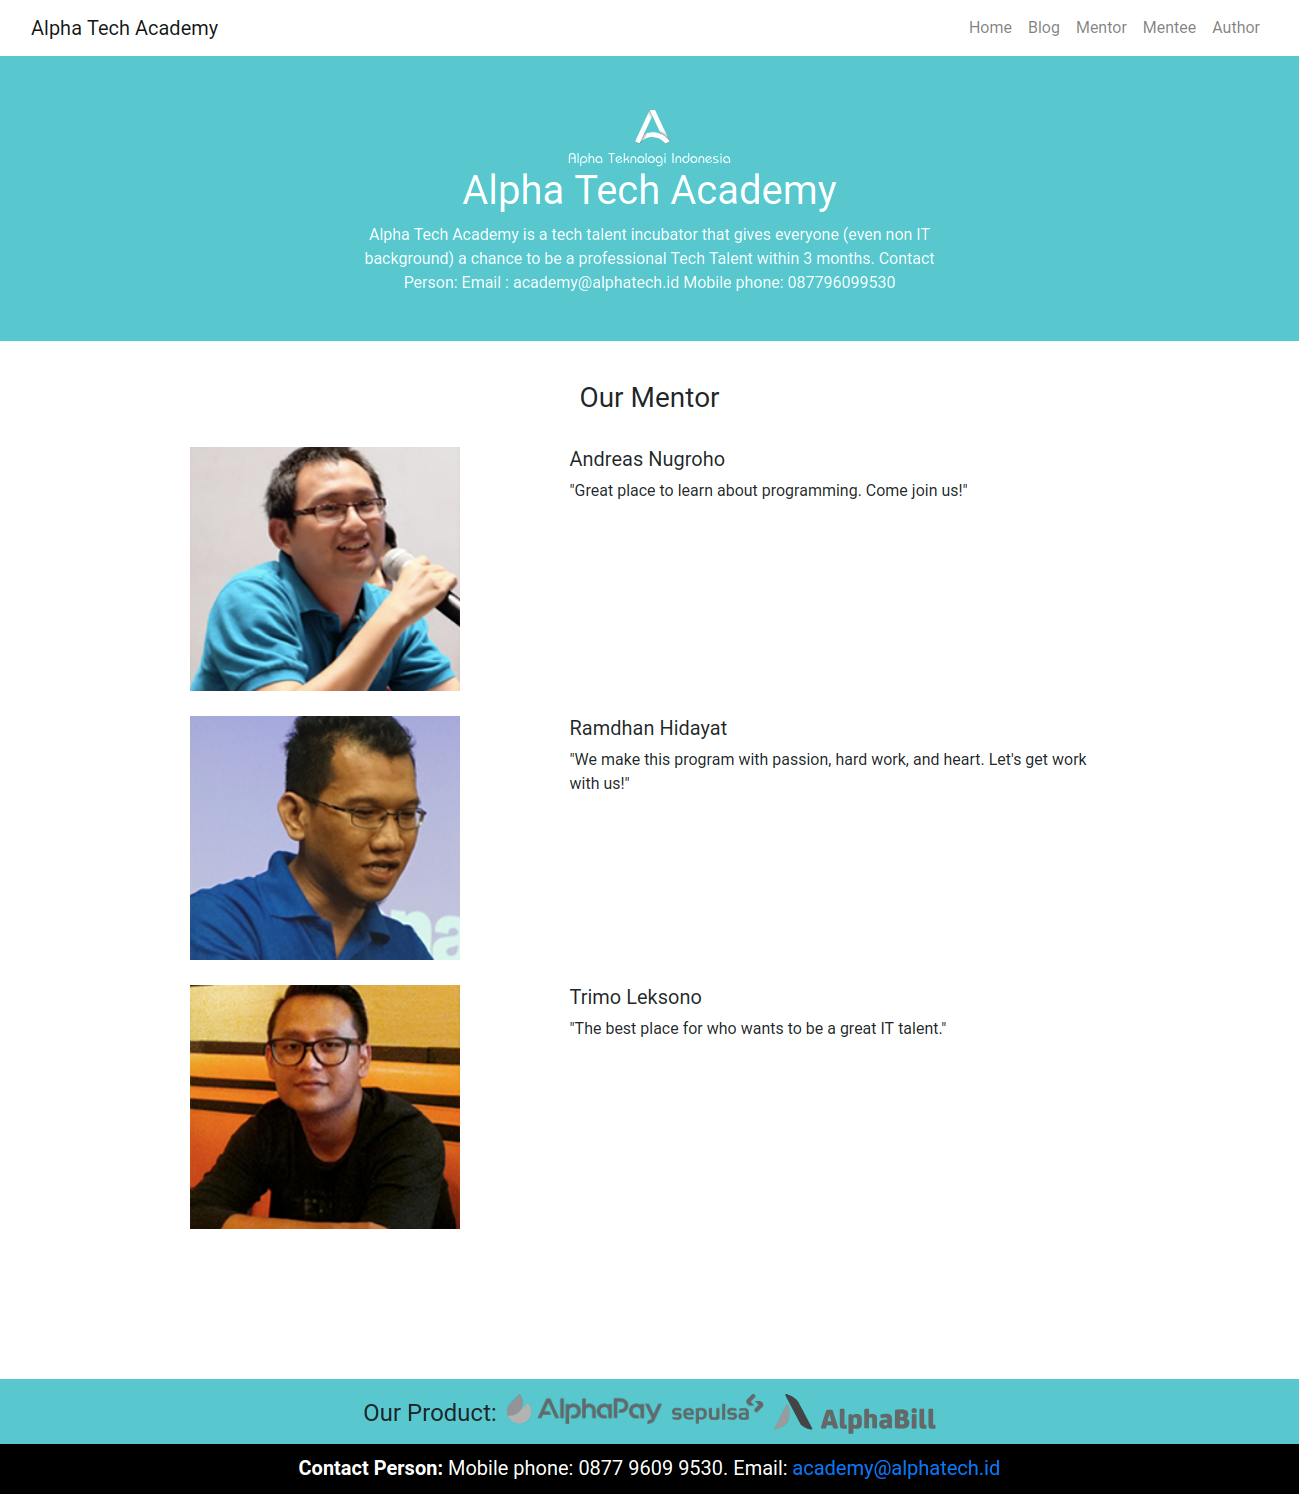
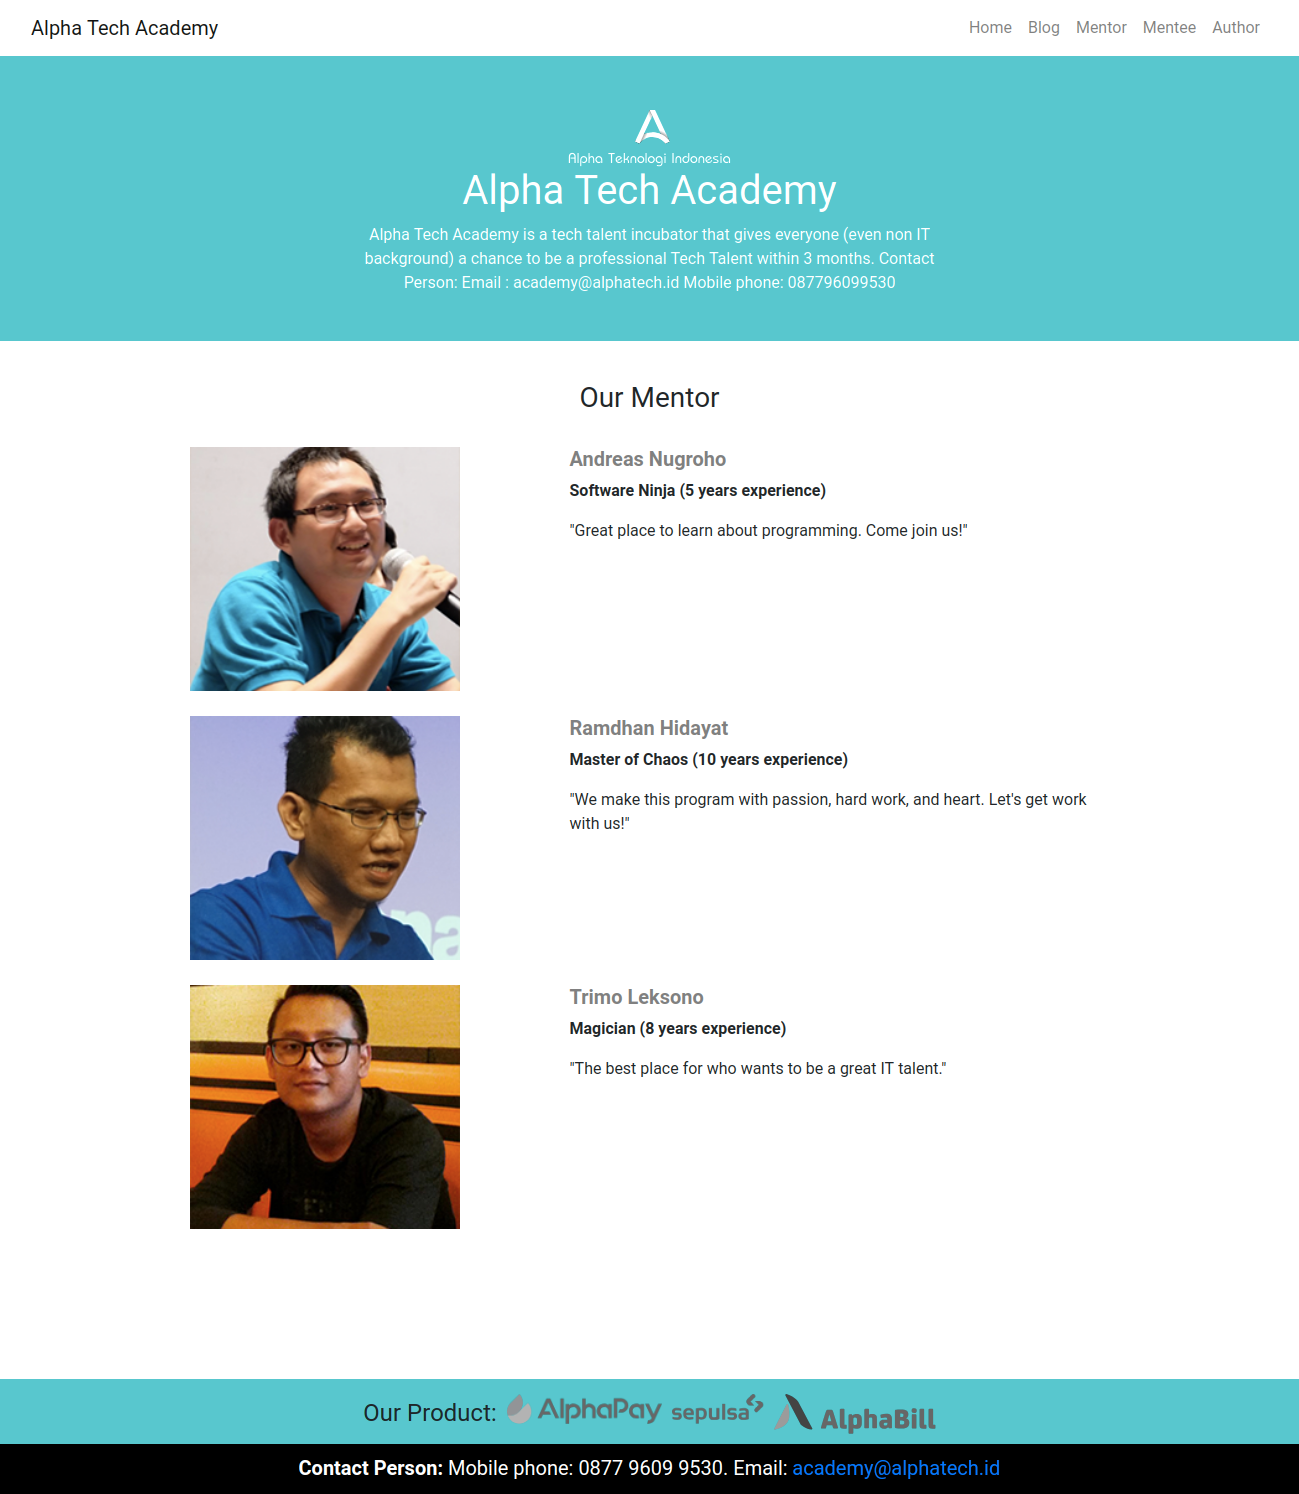
base.html and mentor.html minor edit

Changed region(s): [[0.4311, 0.4618, 0.8314, 0.5542], [0.4311, 0.6466, 0.7082, 0.739], [0.4311, 0.2771, 0.739, 0.3695]]

diff --git a/project_views/project_views/blog/templates/base/base.html b/project_views/project_views/blog/templates/base/base.html
@@ -18,26 +18,26 @@
     <div class="containter-fluid">
         <nav class="navbar navbar-expand-lg navbar-light bg-white fixed-top">
             <div class="container-fluid">
-                <a class="navbar-brand" href="#">Alpha Tech Academy</a>
+                <a class="navbar-brand" href="http://127.0.0.1:8000">Alpha Tech Academy</a>
                 <button class="navbar-toggler navbar-toggler-right" type="button" data-toggle="collapse" data-target="#navbarNav" aria-controls="navbarNav" aria-expanded="false" aria-label="Toggle navigation">
                     <span class="navbar-toggler-icon"></span>
                 </button>
                 <div class="collapse navbar-collapse" id="navbarNav">
                 <ul class="navbar-nav ml-auto">
                 <li class="nav-item">
-                    <a class="nav-link" href="http://127.0.0.1:8888">Home</a>
+                    <a class="nav-link" href="http://127.0.0.1:8000">Home</a>
                 </li>
                 <li class="nav-item">
-                    <a class="nav-link" href="http://127.0.0.1:8888/blog/">Blog</a>
+                    <a class="nav-link" href="http://127.0.0.1:8000/blog/">Blog</a>
                 </li>
                 <li class="nav-item">
-                    <a class="nav-link" href="http://127.0.0.1:8888/mentor/">Mentor</a>
+                    <a class="nav-link" href="http://127.0.0.1:8000/mentor/">Mentor</a>
                 </li>
                 <li class="nav-item">
-                    <a class="nav-link" href="http://127.0.0.1:8888/mentee/">Mentee</a>
+                    <a class="nav-link" href="http://127.0.0.1:8000/mentee/">Mentee</a>
                 </li>
                 <li class="nav-item">
-                    <a class="nav-link" href="http://127.0.0.1:8888/author/">Author</a>
+                    <a class="nav-link" href="http://127.0.0.1:8000/author/">Author</a>
                 </li>
                 </ul>
                 </div>

diff --git a/project_views/project_views/blog/templates/mentor.html b/project_views/project_views/blog/templates/mentor.html
@@ -35,7 +35,8 @@
             <img src="{{mentor.pic}}" alt="" width="270px" >
         </div>
         <div class="col-6">
-            <h5>{{mentor.nama}}</h5>
+            <h5 style="color: grey"><strong>{{mentor.nama}}</strong></h5>
+            <p><strong>{{mentor.julukan}} ({{mentor.experience}} years experience)</strong></p>
             <p>"{{mentor.quotes}}"</p>
         </div>
     </div>

diff --git a/project_views/project_views/blog/static/CSS/style.css b/project_views/project_views/blog/static/CSS/style.css
@@ -101,6 +101,11 @@
     /* margin-bottom: 100px; */
 }
 
+/* Mentor */
+.nama-mentor {
+    color: grey;
+}
+
 /* Author */
 .nama-author {
     padding-top: 10px;
